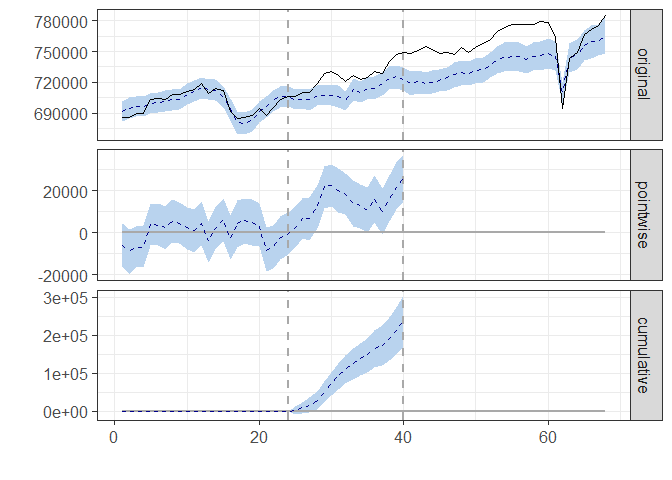
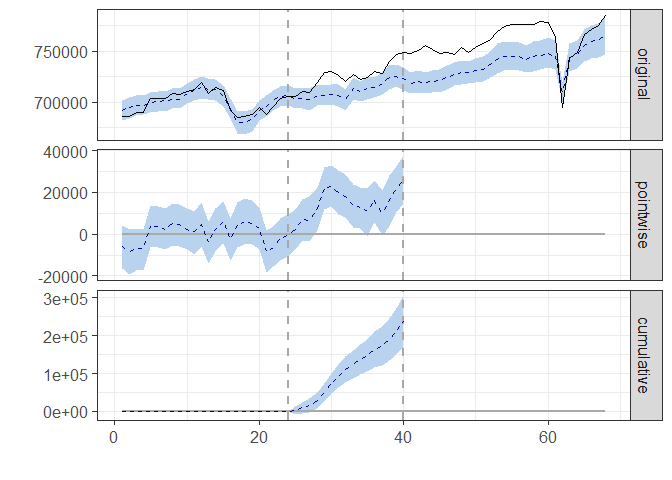
Add updated state tax change file

diff --git a/IllinoisTaxPolicyChange.md b/IllinoisTaxPolicyChange.md
@@ -151,13 +151,13 @@ summary(impact)
     ## 
     ##                          Average              Cumulative        
     ## Actual                   7.3e+05              1.2e+07           
-    ## Prediction (s.d.)        7.1e+05 (2108)       1.1e+07 (33730)   
+    ## Prediction (s.d.)        7.1e+05 (2133)       1.1e+07 (34134)   
     ## 95% CI                   [7.1e+05, 7.2e+05]   [1.1e+07, 1.1e+07]
     ##                                                                 
-    ## Absolute effect (s.d.)   14874 (2108)         237980 (33730)    
-    ## 95% CI                   [10606, 18938]       [169696, 303008]  
+    ## Absolute effect (s.d.)   14874 (2133)         237980 (34134)    
+    ## 95% CI                   [10655, 19081]       [170480, 305288]  
     ##                                                                 
-    ## Relative effect (s.d.)   2.1% (0.3%)          2.1% (0.3%)       
+    ## Relative effect (s.d.)   2.1% (0.31%)         2.1% (0.31%)      
     ## 95% CI                   [1.5%, 2.7%]         [1.5%, 2.7%]      
     ## 
     ## Posterior tail-area probability p:   0.00123
@@ -172,10 +172,9 @@ It’s possible that the increase in taxes gave investors and businesses
 confidence that Illinois was solving its economic issues, or that the
 economy simply improved for other reasons.
 
-<b>As a next step, I may do some additional research to determine if
-there are other variables that I can account for here. The Causal Impact
-package allows for the use of a custom bsts model which would allow us
-to add additional variables to the model other than the quarter.</b>
-
-Either way, this is a simple illustration of how the Causal Impact model
-can be used to compare time series data.
+It’s also possible that my use of a single state is not terribly
+representative in this situation, and I would be btter off using a
+synthetic control methdology. I also need to get together a better
+dataset of state tax policy changes during the period in question. The
+AI Model Claude (3.5 Sonnet) assisted me in pulling together
+<a href="state_tax_changes.csv">this dataset</a>.
